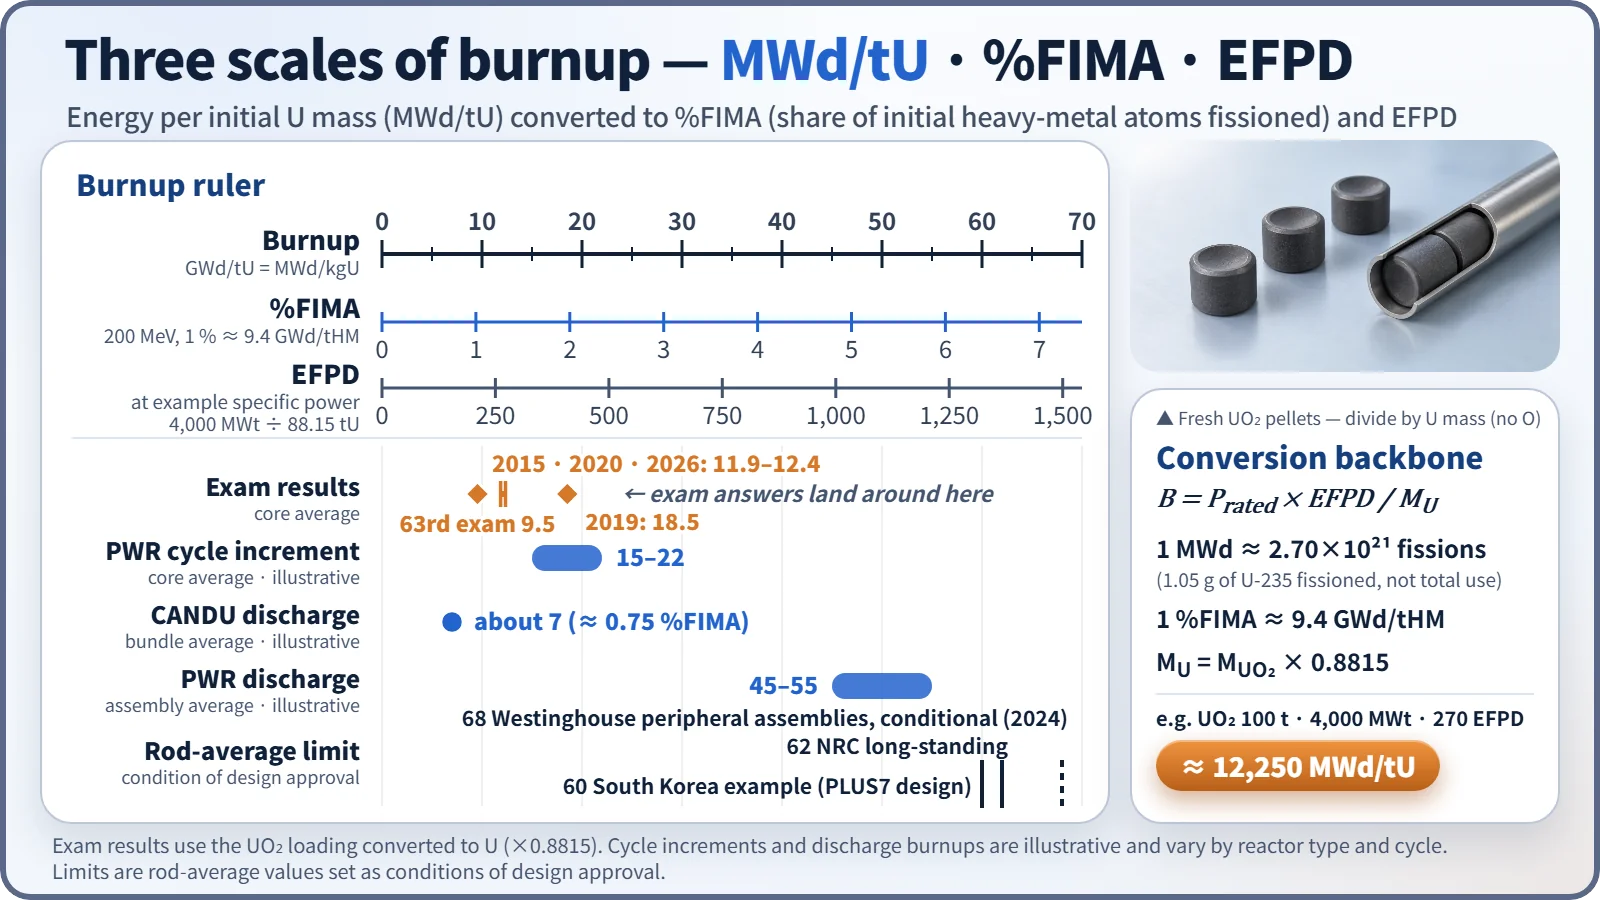
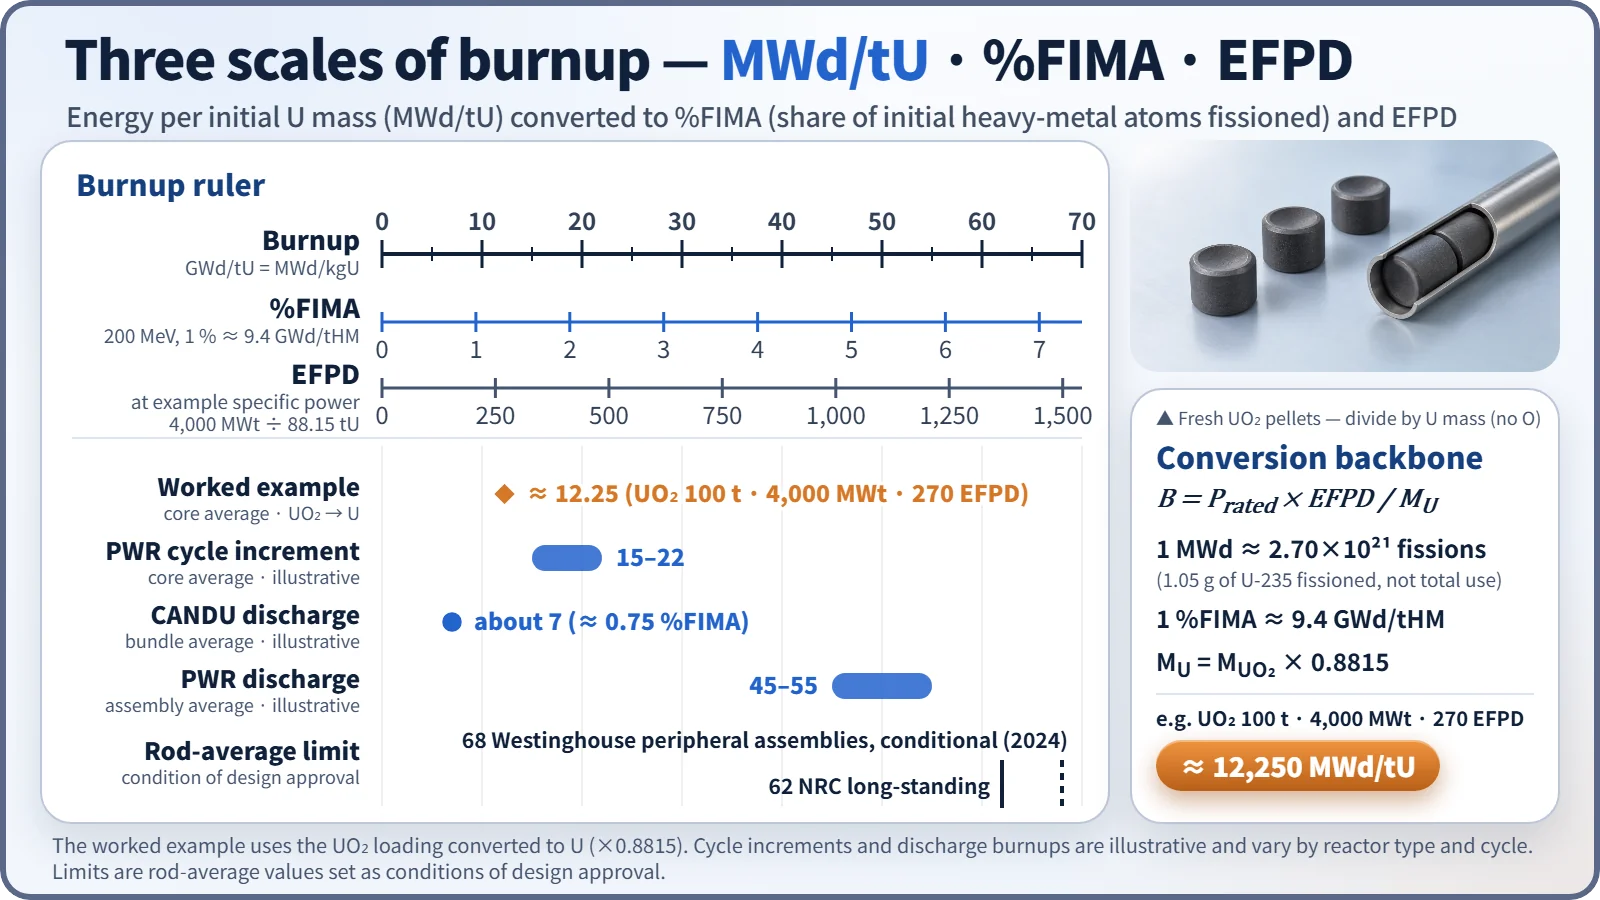
Concept Dictionary: make C-FM-001 objective (remove exam and Korea-specific content)

diff --git a/posts/concepts/c-fm-001-burnup.html b/posts/concepts/c-fm-001-burnup.html
@@ -1,20 +1,18 @@
 <!doctype html>
-<html lang="en"><head><meta charset="utf-8"><meta name="viewport" content="width=device-width,initial-scale=1"><meta name="description" content="Burnup as energy released per initial heavy-metal mass: the MWd/tU, %FIMA and EFPD units, their conversions, worked exam calculations and the regulatory basis of burnup limits."><title>Burnup (MWd/tU, %FIMA, EFPD) | GlobalNuclearNews</title><link rel="stylesheet" href="../../assets/styles.css?v=20261025-en2"><link rel="stylesheet" href="../../assets/article.css?v=20261025-en2"></head>
+<html lang="en"><head><meta charset="utf-8"><meta name="viewport" content="width=device-width,initial-scale=1"><meta name="description" content="Burnup as energy released per initial heavy-metal mass: the MWd/tU, %FIMA and EFPD units, their conversions, worked calculations, core and fuel effects, and how burnup limits are set."><title>Burnup (MWd/tU, %FIMA, EFPD) | GlobalNuclearNews</title><link rel="stylesheet" href="../../assets/styles.css?v=20261025-en2"><link rel="stylesheet" href="../../assets/article.css?v=20261025-en2"></head>
 <body><header class="masthead"><a class="brand" href="../../index.html" aria-label="GlobalNuclearNews home"><span class="brand-mark" aria-hidden="true">GN</span><span><strong>GlobalNuclearNews</strong><small>GLOBAL NUCLEAR INTELLIGENCE</small></span></a><nav aria-label="Main menu"><a href="../../news.html">Global Nuclear News</a><a href="../../theory.html">Nuclear Theory</a><a class="active" href="../../concepts.html">Concept Dictionary</a></nav></header>
-<main class="article"><a class="back" href="../../concepts.html">← Concept Dictionary</a><article><header><p class="eyebrow">Fuel &amp; Materials · C-FM-001</p><h1>Burnup (MWd/tU · %FIMA · EFPD) — Unit Conversions and Exam Calculation Types</h1><p class="subtitle">Energy released per tonne of initial heavy metal, converted to fissions (%FIMA) and full-power days (EFPD), with the exam calculations that use it.</p><div class="byline"><span>Concept C-FM-001</span></div></header>
+<main class="article"><a class="back" href="../../concepts.html">← Concept Dictionary</a><article><header><p class="eyebrow">Fuel &amp; Materials · C-FM-001</p><h1>Burnup (MWd/tU · %FIMA · EFPD) — Definitions and Unit Conversions</h1><p class="subtitle">Energy released per tonne of initial heavy metal, converted to fissions (%FIMA) and full-power days (EFPD), with worked calculations.</p><div class="byline"><span>Concept C-FM-001</span></div></header>
 <div class="lead"><strong>Definition</strong><p><strong>Burnup is the cumulative thermal energy a fuel has released since loading, divided by the initial loaded heavy-metal mass (U, or U+Pu for MOX).</strong> It is expressed in MWd/tU (= MWD/MTU), in %FIMA when counted in fissions, and in EFPD when counted in operating time.</p></div>
 <section><h2>Principle and mechanism</h2><h3>Three ways to express it</h3><table class="article-table"><thead><tr><th>Expression</th><th>Definition</th><th>Typical use</th></tr></thead><tbody><tr><td>MWd/tU (GWd/tHM)</td><td>Energy released ÷ initial heavy-metal mass</td><td>Design and licensing limits, discharge burnup</td></tr><tr><td>%FIMA</td><td>Fissions per 100 initial heavy-metal atoms</td><td>Fuel performance, fast reactors, research reactors</td></tr><tr><td>EFPD</td><td>∫P(t)dt ÷ P<sub>rated</sub> (days)</td><td>Cycle length, operations management, reactivity change rate</td></tr></tbody></table><ul><li>The denominator is the <strong>initial loaded heavy-metal mass (metal only)</strong>. It is not the UO₂ mass, and it is not corrected for the mass consumed during irradiation.</li><li>1 GWd/tU = 1 MWd/kgU = 1,000 MWd/tU.</li><li>The quantities are linked by <strong>B = P<sub>rated</sub> × EFPD / M<sub>U</sub></strong>, with EFPD = capacity factor × calendar days (when the capacity factor is read as the energy ratio relative to rated power).</li></ul>
-<h3>The backbone of every conversion: how many fissions is 1 MWd?</h3><ul><li>1 MWd = 8.64×10¹⁰ J, and the recoverable energy per fission is about 200 MeV = 3.204×10⁻¹¹ J, so <strong>1 MWd ≈ 2.70×10²¹ fissions</strong>.</li><li>If all fissions occur in U-235, <strong>about 1.05 g of U-235 fissions per MWd</strong>; including capture (α ≈ 0.169), total U-235 consumption is about 1.23 g.</li><li>One tonne of heavy metal contains 10⁶/238 × N<sub>A</sub> ≈ 2.53×10²⁷ atoms, so 1 %FIMA = 2.53×10²⁵ fissions = about 9,400 MWd, giving <strong>1 %FIMA ≈ 9.4 GWd/tHM</strong> (200 MeV assumed; 9.6 at 205 MeV). Scaled to 100 %FIMA this is about 940–960 GWd/tHM, commonly remembered as "about 950 MWd/kgU".</li><li>If a problem gives the energy per fission (for example 200 MeV, or a conversion factor of 3.1×10¹⁰ fissions/W·s ≈ 201 MeV), use that value.</li></ul>
-<figure class="article-image"><img alt="Triple ruler aligning burnup from 0 to 70 GWd/tU with %FIMA ticks 0 to 7 and EFPD ticks 0 to 1,500 at an example specific power of 4,000 MWt per 88.15 tU, with exam results near 9.5 to 18.5, a PWR cycle increment of 15 to 22, CANDU discharge about 7, PWR discharge 45 to 55, rod-average limits at 60, 62 and 68, and a conversion card giving about 12,250 MWd/tU for the worked example" height="900" src="../../assets/images/concepts/c-fm-001-burnup/fig1-burnup-ruler.webp" width="1600"/><figcaption>The three scales of burnup. The EFPD scale assumes an example core of 4,000 MWt and 88.15 tU. Exam results use the UO₂ loading converted to U (×0.8815); cycle increments and discharge burnups are illustrative values that vary by reactor type and cycle; limits are rod-average values set as conditions of design approval.</figcaption></figure>
-<h3>Worked examples (exam types)</h3><p><strong>Example 1: burnup from thermal power, capacity factor and loading (2026 exam, session 4, Q5(a)).</strong> 100 t of 3 % enriched UO₂, 4,000 MWt, 90 % capacity factor, 300 days.</p><ul><li>U mass fraction = M<sub>U</sub>/M<sub>UO₂</sub> = 237.96/269.96 = 0.8815 → 88.15 tU</li><li>Energy released = 4,000 × 0.9 × 300 = 1.08×10⁶ MWd (= 270 EFPD)</li><li><strong>B = 1.08×10⁶ / 88.15 ≈ 12,250 MWd/tU</strong> (dividing by the UO₂ mass gives 10,800, about 12 % too low)</li></ul><p><strong>Example 2: %FIMA conversion (68th exam, session 3, Q3).</strong> 20 wt% metallic U, 200 MeV.</p><ul><li>M = 1/(0.2/235 + 0.8/238) = 237.44 → 2.537×10²⁷ atoms per tU</li><li>1 %FIMA = 2.537×10²⁵ × 200 × 1.602×10⁻¹³ J ÷ 8.64×10¹⁰ = <strong>about 9,410 MWd/tU</strong></li><li>1 atomic % (1 % of the initial U-235 atoms fissioned) = 0.2×10⁶/235 × N<sub>A</sub> × 0.01 = 5.13×10²⁴ fissions → <strong>about 1,900 MWd/tU</strong></li></ul><p><strong>Example 3: EFPD and reactivity change rate (2008 exam, session 3, Q6).</strong> Design burnup 82,380 MWD/MTU, 85 tU, 2,875 MWt, k<sub>eff</sub> 1.206 → 1.005.</p><ul><li>EFPD = 82,380 × 85 / 2,875 = <strong>about 2,436 EFPD</strong></li><li>ρ = (k−1)/k: 17,081 pcm → 498 pcm, Δρ = 16,584 pcm → <strong>about 6.8 pcm/EFPD</strong></li></ul>
-<h3>How the core changes with burnup: Pu contribution and β<sub>eff</sub></h3><p>As burnup proceeds, neutron capture in U-238 builds up Pu-239, which takes over part of the fission load. Using the conditions of the 68th exam, session 2, Q3 (at discharge U-235 0.97 %, Pu-239 1.0 %; σ<sub>f</sub> 582.2 and 742.5 b; 192.9 and 198.5 MeV per fission), the fission-rate ratio Pu/U = (1.0×742.5)/(0.97×582.2) = 1.315, and on an energy basis the <strong>Pu contribution ≈ 57 %</strong> (instantaneous value at end of life).</p><p>This shift carries through to operating behavior:</p><ul><li>β(Pu-239) ≈ 0.0021 is smaller than that of U-235 (0.0065), so <strong>β<sub>eff</sub> decreases toward the end of the cycle</strong> and the kinetics become faster.</li><li>Depletion of fissile material and accumulation of fission products reduce the excess reactivity, which is compensated by lowering the boron concentration.</li><li>Energy per fission is a few percent higher for Pu, so at the same power the fission rate drops slightly.</li></ul></section>
+<h3>The backbone of every conversion: how many fissions is 1 MWd?</h3><ul><li>1 MWd = 8.64×10¹⁰ J, and the recoverable energy per fission is about 200 MeV = 3.204×10⁻¹¹ J, so <strong>1 MWd ≈ 2.70×10²¹ fissions</strong>.</li><li>If all fissions occur in U-235, <strong>about 1.05 g of U-235 fissions per MWd</strong>; including capture (α ≈ 0.169), total U-235 consumption is about 1.23 g.</li><li>One tonne of heavy metal contains 10⁶/238 × N<sub>A</sub> ≈ 2.53×10²⁷ atoms, so 1 %FIMA = 2.53×10²⁵ fissions = about 9,400 MWd, giving <strong>1 %FIMA ≈ 9.4 GWd/tHM</strong> (200 MeV assumed; 9.6 at 205 MeV). Scaled to 100 %FIMA this is about 940–960 GWd/tHM, commonly remembered as "about 950 MWd/kgU".</li><li>If a specific energy per fission is stated (for example 200 MeV, or a conversion factor of 3.1×10¹⁰ fissions/W·s ≈ 201 MeV), use that value.</li></ul>
+<figure class="article-image"><img alt="Triple ruler aligning burnup from 0 to 70 GWd/tU with %FIMA ticks 0 to 7 and EFPD ticks 0 to 1,500 at an example specific power of 4,000 MWt per 88.15 tU, with the worked example at about 12.25, a PWR cycle increment of 15 to 22, CANDU discharge about 7, PWR discharge 45 to 55, rod-average limits at 62 and 68, and a conversion card giving about 12,250 MWd/tU for the worked example" height="900" src="../../assets/images/concepts/c-fm-001-burnup/fig1-burnup-ruler.webp" width="1600"/><figcaption>The three scales of burnup. The EFPD scale assumes an example core of 4,000 MWt and 88.15 tU. The worked example uses the UO₂ loading converted to U (×0.8815); cycle increments and discharge burnups are illustrative values that vary by reactor type and cycle; limits are rod-average values set as conditions of design approval.</figcaption></figure>
+<h3>Worked examples</h3><p><strong>Example 1: burnup from thermal power, capacity factor and loading.</strong> 100 t of 3 % enriched UO₂, 4,000 MWt, 90 % capacity factor, 300 days.</p><ul><li>U mass fraction = M<sub>U</sub>/M<sub>UO₂</sub> = 237.96/269.96 = 0.8815 → 88.15 tU</li><li>Energy released = 4,000 × 0.9 × 300 = 1.08×10⁶ MWd (= 270 EFPD)</li><li><strong>B = 1.08×10⁶ / 88.15 ≈ 12,250 MWd/tU</strong> (dividing by the UO₂ mass gives 10,800, about 12 % too low)</li></ul><p><strong>Example 2: %FIMA conversion.</strong> 20 wt% metallic U, 200 MeV.</p><ul><li>M = 1/(0.2/235 + 0.8/238) = 237.44 → 2.537×10²⁷ atoms per tU</li><li>1 %FIMA = 2.537×10²⁵ × 200 × 1.602×10⁻¹³ J ÷ 8.64×10¹⁰ = <strong>about 9,410 MWd/tU</strong></li><li>1 atomic % (1 % of the initial U-235 atoms fissioned) = 0.2×10⁶/235 × N<sub>A</sub> × 0.01 = 5.13×10²⁴ fissions → <strong>about 1,900 MWd/tU</strong></li></ul><p><strong>Example 3: EFPD and reactivity change rate.</strong> Design burnup 82,380 MWD/MTU, 85 tU, 2,875 MWt, k<sub>eff</sub> 1.206 → 1.005.</p><ul><li>EFPD = 82,380 × 85 / 2,875 = <strong>about 2,436 EFPD</strong></li><li>ρ = (k−1)/k: 17,081 pcm → 498 pcm, Δρ = 16,584 pcm → <strong>about 6.8 pcm/EFPD</strong></li></ul>
+<h3>How the core changes with burnup: Pu contribution and β<sub>eff</sub></h3><p>As burnup proceeds, neutron capture in U-238 builds up Pu-239, which takes over part of the fission load. For an illustrative discharge composition ( U-235 0.97 %, Pu-239 1.0 %; σ<sub>f</sub> 582.2 and 742.5 b; 192.9 and 198.5 MeV per fission), the fission-rate ratio Pu/U = (1.0×742.5)/(0.97×582.2) = 1.315, and on an energy basis the <strong>Pu contribution ≈ 57 %</strong> (instantaneous value at end of life).</p><p>This shift carries through to operating behavior:</p><ul><li>β(Pu-239) ≈ 0.0021 is smaller than that of U-235 (0.0065), so <strong>β<sub>eff</sub> decreases toward the end of the cycle</strong> and the kinetics become faster.</li><li>Depletion of fissile material and accumulation of fission products reduce the excess reactivity, which is compensated by lowering the boron concentration.</li><li>Energy per fission is a few percent higher for Pu, so at the same power the fission rate drops slightly.</li></ul></section>
 <section><h2>What it means in a plant</h2><h3>Design and operation</h3><ul><li><strong>Cycle design:</strong> the cycle burnup increment of an 18-month PWR cycle is roughly 15–22 GWd/tU (illustrative); the loading pattern is tuned to meet both the discharge burnup and the power-peaking targets.</li><li><strong>Levels of burnup:</strong> core average &lt; assembly average &lt; rod average &lt; local pellet value. When comparing with a limit, first check which basis the limit uses.</li><li><strong>Economics:</strong> the higher the discharge burnup, the less spent fuel per unit of energy. CANDU (natural U) reaches about 7 GWd/tU (about 0.75 %FIMA, illustrative); PWR assemblies reach roughly 45–55 GWd/tU (illustrative).</li></ul><h3>Safety: what changes as burnup rises</h3><ul><li>Fission gas release (FGR) and rod internal pressure increase; a rim structure forms at the pellet periphery; cladding corrosion and hydrogen pickup increase.</li><li>The PCMI failure threshold in a reactivity-initiated accident (RIA) drops; in a LOCA, fuel fragmentation, relocation and dispersal become concerns.</li><li>Spent-fuel decay heat and source term increase; conversely, storage criticality analyses can take burnup credit.</li></ul></section>
-<section><h2>Regulatory basis</h2><table class="article-table"><thead><tr><th>Basis</th><th>Key point</th></tr></thead><tbody><tr><td>Fuel design licensing (topical reports, FSAR Section 4.2)</td><td>Burnup limits are set as conditions of design approval, not as numbers in statute</td></tr><tr><td>South Korean operating example (PLUS7)</td><td>Designed for a rod-average 60,000 MWd/MTU; operating record maximum about 59,500</td></tr><tr><td>KINS Safety Review Guideline 4.2 / NRC SRP 4.2</td><td>Burnup-dependent design criteria (internal pressure, deformation, oxidation, FGR)</td></tr><tr><td>NRC rod average 62 GWd/MTU</td><td>Long-standing limit; in 2024 the first conditional approval of a Westinghouse 68 GWd/MTU rod average for peripheral assemblies</td></tr><tr><td>RG 1.183 Rev. 1 (2023)</td><td>Extends non-LOCA release fractions to a rod average of 68 GWd/MTU and enrichment up to 8 wt%</td></tr><tr><td>RG 1.236 (2020)</td><td>Defines the RIA cladding PCMI limit as a function of hydrogen content (burnup-related)</td></tr></tbody></table><p>When these questions were set (2001–2008), answers stopped at "calculate MWD/MTU". A current answer should add one line on the trend toward high burnup and higher enrichment (LEU+) and on burnup-dependent accident criteria (RG 1.236, RG 1.183 Rev. 1).</p></section>
+<section><h2>Regulatory and design criteria</h2><p>Burnup limits come from fuel design approval rather than from statute. The criteria below are examples from the United States (US NRC).</p><table class="article-table"><thead><tr><th>Basis</th><th>Key point</th></tr></thead><tbody><tr><td>Fuel design licensing (topical reports, FSAR Section 4.2)</td><td>Burnup limits are set as conditions of design approval, not as numbers in statute</td></tr><tr><td>US NRC Standard Review Plan (SRP) 4.2</td><td>Burnup-dependent design criteria (internal pressure, deformation, oxidation, FGR)</td></tr><tr><td>US NRC rod average 62 GWd/MTU</td><td>Long-standing limit; in 2024 the first conditional approval of a Westinghouse 68 GWd/MTU rod average for peripheral assemblies</td></tr><tr><td>RG 1.183 Rev. 1 (2023)</td><td>Extends non-LOCA release fractions to a rod average of 68 GWd/MTU and enrichment up to 8 wt%</td></tr><tr><td>RG 1.236 (2020)</td><td>Defines the RIA cladding PCMI limit as a function of hydrogen content (burnup-related)</td></tr></tbody></table><p>The trend toward high burnup and higher enrichment (LEU+) therefore goes together with burnup-dependent accident criteria (RG 1.236, RG 1.183 Rev. 1), not only with a higher burnup number.</p></section>
 <section><h2>Easily confused pairs</h2><table class="article-table"><thead><tr><th></th><th>Burnup (MWd/tU)</th><th>%FIMA</th><th>Atomic % (fissile depletion)</th><th>EFPD</th></tr></thead><tbody><tr><td>Reference quantity</td><td>Initial heavy-metal mass</td><td>Initial heavy-metal atoms</td><td>Initial fissile atoms</td><td>Rated power</td></tr><tr><td>One unit equals</td><td>—</td><td>≈ 9.4 GWd/tHM</td><td>≈ 1.9 GWd/tU at 20 % enrichment</td><td>≈ 45 MWd/tU for 4,000 MWt and 88 tU</td></tr><tr><td>Common mistake</td><td>Dividing by UO₂ mass</td><td>Confusing it with atomic %</td><td>Using total U as the denominator</td><td>Using calendar days as is</td></tr></tbody></table></section>
-<section><h2>Key points at a glance</h2><ol><li><strong>Definition:</strong> cumulative thermal energy released since loading ÷ initial heavy-metal mass; unit MWd/tU (= GWd/tHM × 10³).</li><li><strong>Equations:</strong> B = P<sub>rated</sub> × EFPD / M<sub>U</sub>; EFPD = ∫P dt / P<sub>rated</sub> = capacity factor × operating days.</li><li><strong>Conversions:</strong> 1 MWd ≈ 2.7×10²¹ fissions ≈ 1.05 g of U-235 fissioned; 1 %FIMA ≈ 9.4–9.6 GWd/tHM (100 %FIMA ≈ 950 MWd/kgU).</li><li><strong>Mass:</strong> UO₂ → U factor 0.8815 (238/270); the denominator is the initial metallic U.</li><li><strong>Levels:</strong> core &lt; assembly &lt; rod &lt; local pellet burnup.</li><li><strong>Core effects:</strong> Pu build-up (end-of-life Pu contribution around 50 %) → lower β<sub>eff</sub>, lower excess reactivity and boron.</li><li><strong>Fuel effects:</strong> FGR and internal pressure, rim structure, corrosion and hydriding, tighter RIA and LOCA criteria.</li><li><strong>Limits:</strong> conditions of design approval; South Korean example rod average 60 GWd/tU; NRC 62 → extended to 68 GWd/MTU.</li></ol>
-<figure class="article-image"><img alt="Answer-sheet sketch: a triangle linking burnup B in MWd/tU at the top with %FIMA and EFPD at the bottom corners, labelled 1 %FIMA about 9,400 MWd/tU at 200 MeV on one side and B equals rated thermal power times EFPD divided by uranium mass on the other, with 1 MWd about 2.7×10²¹ fissions or 1.05 g of U-235 and the UO₂-to-U factor 0.8815 below" height="800" src="../../assets/images/concepts/c-fm-001-burnup/sketch1-burnup-triangle.webp" width="1600"/><figcaption>Answer-sheet conversion triangle for burnup, %FIMA and EFPD.</figcaption></figure>
-<p><em>This is a model answer, not an official solution. It reflects the criteria current as of 2026.</em></p></section>
-<section><h2>Exam relevance</h2><p>Burnup has appeared nine times in the Korean Professional Engineer (Nuclear Power) exam, from the 63rd and 68th exams of the old series through the 2026 exam: 63rd exam, session 4, Q2; 68th exam, session 2, Q3 and session 3, Q3; 2008 exam, session 3, Q6; 2015 exam, session 4, Q6; 2019 exam, session 2, Q1; 2020 exam, session 3, Q6; 2025 exam, session 1, Q13; and 2026 exam, session 4, Q5. The typical question types are specific-burnup calculations from thermal power, capacity factor and fuel loading (often combined with U-235 consumption and the change in enrichment), %FIMA–MWd/tU conversion, EFPD and the reactivity change rate per EFPD, the end-of-life share of energy from Pu-239, and a short-answer item on how burnup affects β<sub>eff</sub>.</p><p>Results of the same calculation type (with UO₂ converted to U) are 11,856 MWd/tU in 2015, 12,354 in 2020 and 9,547 in the 63rd exam. First check whether the problem gives the loading as U or as UO₂, and if it is ambiguous, state your assumption in the first line.</p></section>
-<footer class="source"><strong>Sources</strong><div class="reference-entry">US NRC, Standard Review Plan (SRP) Section 4.2, Fuel System Design; KINS Safety Review Guideline 4.2 (based on SRP 4.2).</div><div class="reference-entry">US NRC, Regulatory Guide 1.183, Revision 1 (2023); Regulatory Guide 1.236 (2020); 10 CFR 50.46.</div><div class="reference-entry">NUREG/CR-6703 (basis of the 62 GWd/MTU rod-average limit); NRC approval of Westinghouse increased burnup (August 2024); EPRI definition of "higher burnup" as 62–75 GWd/MTU (2025).</div><div class="reference-entry">Korean Nuclear Society conference presentations on PLUS7 fuel burnup (2014, 2016).</div><div class="reference-entry">Conversion factors and worked-example results: direct calculation from the problem data (200 MeV per fission unless stated otherwise).</div></footer>
+<section><h2>Key points at a glance</h2><ol><li><strong>Definition:</strong> cumulative thermal energy released since loading ÷ initial heavy-metal mass; unit MWd/tU (= GWd/tHM × 10³).</li><li><strong>Equations:</strong> B = P<sub>rated</sub> × EFPD / M<sub>U</sub>; EFPD = ∫P dt / P<sub>rated</sub> = capacity factor × operating days.</li><li><strong>Conversions:</strong> 1 MWd ≈ 2.7×10²¹ fissions ≈ 1.05 g of U-235 fissioned; 1 %FIMA ≈ 9.4–9.6 GWd/tHM (100 %FIMA ≈ 950 MWd/kgU).</li><li><strong>Mass:</strong> UO₂ → U factor 0.8815 (238/270); the denominator is the initial metallic U, so first check whether a loading is given as U or as UO₂.</li><li><strong>Levels:</strong> core &lt; assembly &lt; rod &lt; local pellet burnup.</li><li><strong>Core effects:</strong> Pu build-up (end-of-life Pu contribution around 50 %) → lower β<sub>eff</sub>, lower excess reactivity and boron.</li><li><strong>Fuel effects:</strong> FGR and internal pressure, rim structure, corrosion and hydriding, tighter RIA and LOCA criteria.</li><li><strong>Limits:</strong> conditions of design approval; for example, the US NRC rod average of 62 GWd/MTU, extended to 68 GWd/MTU (conditional).</li></ol>
+<figure class="article-image"><img alt="Sketch: a triangle linking burnup B in MWd/tU at the top with %FIMA and EFPD at the bottom corners, labelled 1 %FIMA about 9,400 MWd/tU at 200 MeV on one side and B equals rated thermal power times EFPD divided by uranium mass on the other, with 1 MWd about 2.7×10²¹ fissions or 1.05 g of U-235 and the UO₂-to-U factor 0.8815 below" height="800" src="../../assets/images/concepts/c-fm-001-burnup/sketch1-burnup-triangle.webp" width="1600"/><figcaption>Conversion triangle for burnup, %FIMA and EFPD.</figcaption></figure></section>
+<footer class="source"><strong>Sources</strong><div class="reference-entry">US NRC, Standard Review Plan (SRP) Section 4.2, Fuel System Design.</div><div class="reference-entry">US NRC, Regulatory Guide 1.183, Revision 1 (2023); Regulatory Guide 1.236 (2020); 10 CFR 50.46.</div><div class="reference-entry">NUREG/CR-6703 (basis of the 62 GWd/MTU rod-average limit); NRC approval of Westinghouse increased burnup (August 2024); EPRI definition of "higher burnup" as 62–75 GWd/MTU (2025).</div><div class="reference-entry">Conversion factors and worked-example results: direct calculation from the stated data (200 MeV per fission unless stated otherwise).</div></footer>
 </article></main>
 <footer><span>© 2026 GlobalNuclearNews</span><span>Independent nuclear industry briefing</span></footer></body></html>

diff --git a/assets/app.js b/assets/app.js
@@ -1351,7 +1351,7 @@ const posts = [
     "category": "Fuel & Materials",
     "summary": "Burnup divides released energy by the initial heavy-metal mass (not the UO₂ mass); 1 MWd ≈ 2.70×10²¹ fissions and 1 %FIMA ≈ 9.4 GWd/tHM.",
     "thumbnail": "assets/images/concepts/c-fm-001-burnup/thumbnail.webp",
-    "thumbnailAlt": "Text card reading Nuclear Power Engineering, Concept, Burnup (MWd/tU · FIMA), Fuel & Materials · Concept · Key points, with an atom icon",
+    "thumbnailAlt": "Text card reading Nuclear Power Engineering, Concept, Burnup (MWd/tU · FIMA), Fuel & Materials · Concept, with an atom icon",
     "url": "posts/concepts/c-fm-001-burnup.html",
     "keywords": "burnup MWd/tU GWd/tHM FIMA EFPD specific burnup UO2 heavy metal plutonium contribution beta effective burnup limit rod average nuclear fuel"
   },
